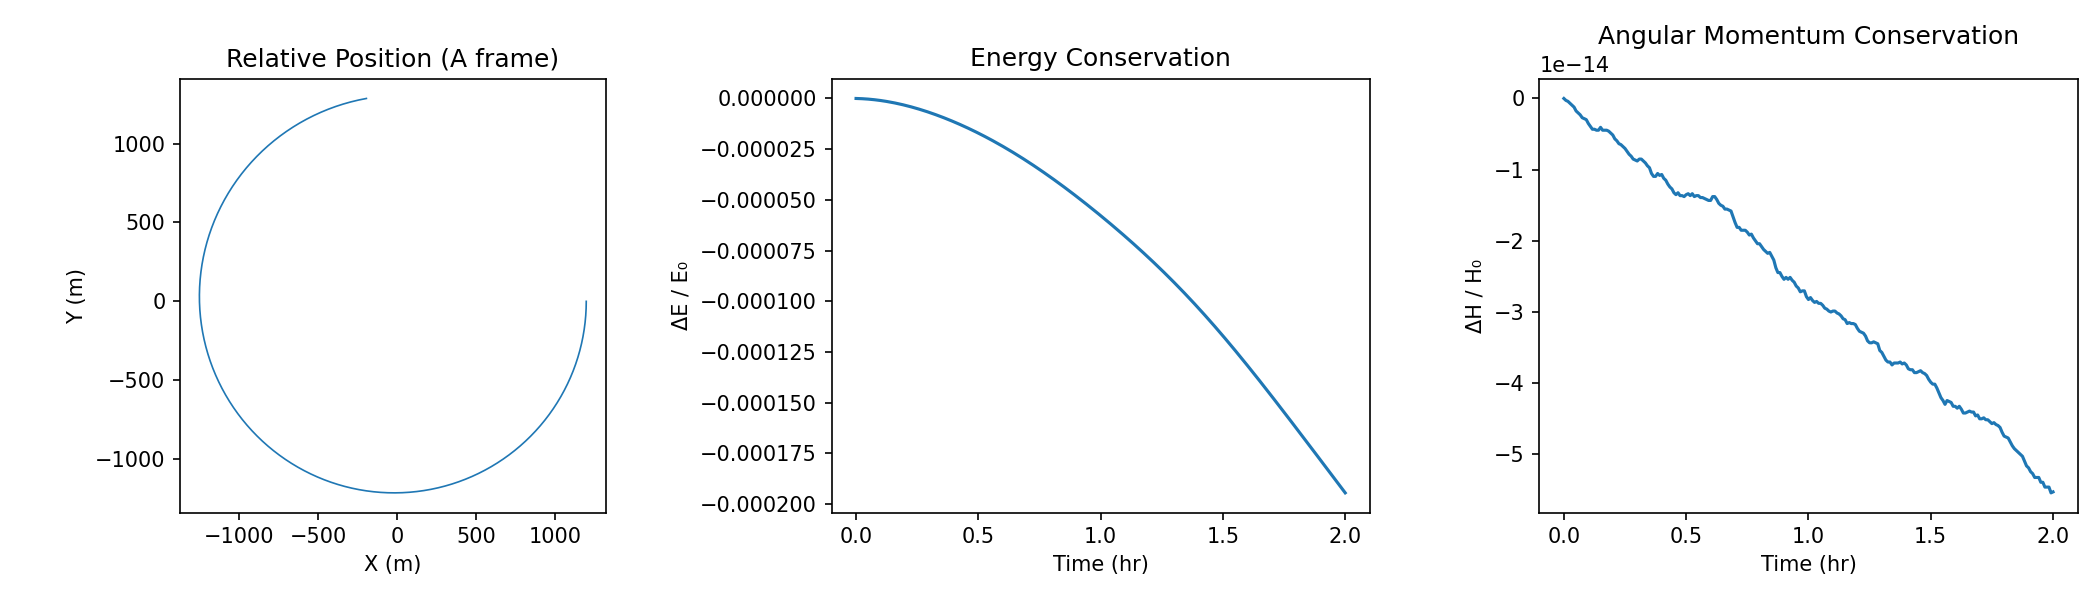
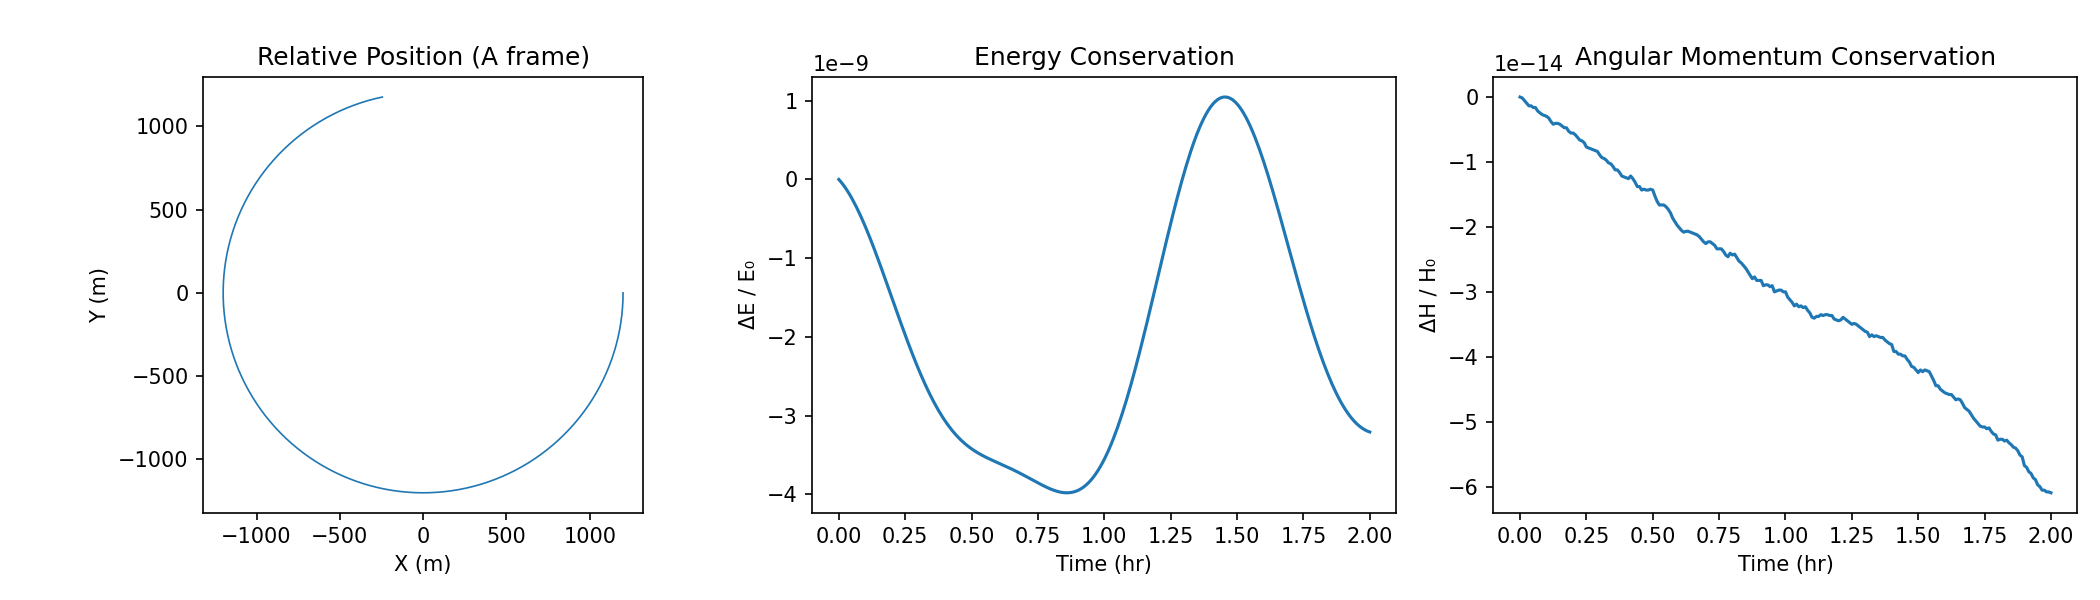
fixed energy bug!!

diff --git a/gubas_rs/src/lgvi.rs b/gubas_rs/src/lgvi.rs
@@ -233,8 +233,8 @@ pub fn hamiltonian_map(
                     [x[27], x[28], x[29]]];
 
     // Normalised potential partials
-    let du_dr_norm: Vec3 = scale_v(1.0 / (nr * beta),    du_dr_n);   // ÷ nr·nm·nt²
-    let m_norm    : Vec3 = scale_v(1.0 / (alpha * nt*nt), m_n);       // ÷ nm·nr²·nt²
+    let du_dr_norm: Vec3 = scale_v(1.0 / beta,            du_dr_n);   // ÷ nm·nr·nt²  (force scale)
+    let m_norm    : Vec3 = scale_v(1.0 / (alpha * nt*nt), m_n);       // ÷ nm·nr²·nt² (torque scale)
 
     let ia = params.ia;
     let ib = params.ib;
@@ -276,7 +276,7 @@ pub fn hamiltonian_map(
     let r_n1_phys: Vec3 = scale_v(nr, r_n1);    // de-normalise for the potential call
     let (du_dr_n1, m_n1) = map_potential_partials_lgvi(c_n1, r_n1_phys, params);
 
-    let du_dr_n1_norm: Vec3 = scale_v(1.0 / (nr * beta),    du_dr_n1);
+    let du_dr_n1_norm: Vec3 = scale_v(1.0 / beta,            du_dr_n1);
     let m_n1_norm    : Vec3 = scale_v(1.0 / (alpha * nt*nt), m_n1);
 
     // ── propagate velocity ───────────────────────────────────────────────

diff --git a/example/run_example.py b/example/run_example.py
@@ -87,7 +87,7 @@ os.makedirs("output_x", exist_ok=True)
 try:
     import gubas_rs          # maturin-built Python extension
     gubas_rs.run()
-except ImportError:
+except (ImportError, AttributeError):
     # Fall back to the standalone binary
     binary = os.path.join(REPO_ROOT, "gubas_rs", "target", "release", "hou_cpp_final")
     if not os.path.isfile(binary):

diff --git a/TODO.md b/TODO.md
@@ -1,0 +1,7 @@
+## TODO
+
+- [ ] Fix energy conservation / long-term drift.
+- [ ] Implement variational equation partials for orbit determination.
+- [ ] Split contributions/modules for integration into SCB.
+- [ ] Better understand pros/cons of splitting the implementation.
+- [ ] Improve integration with Stokes coefficients.